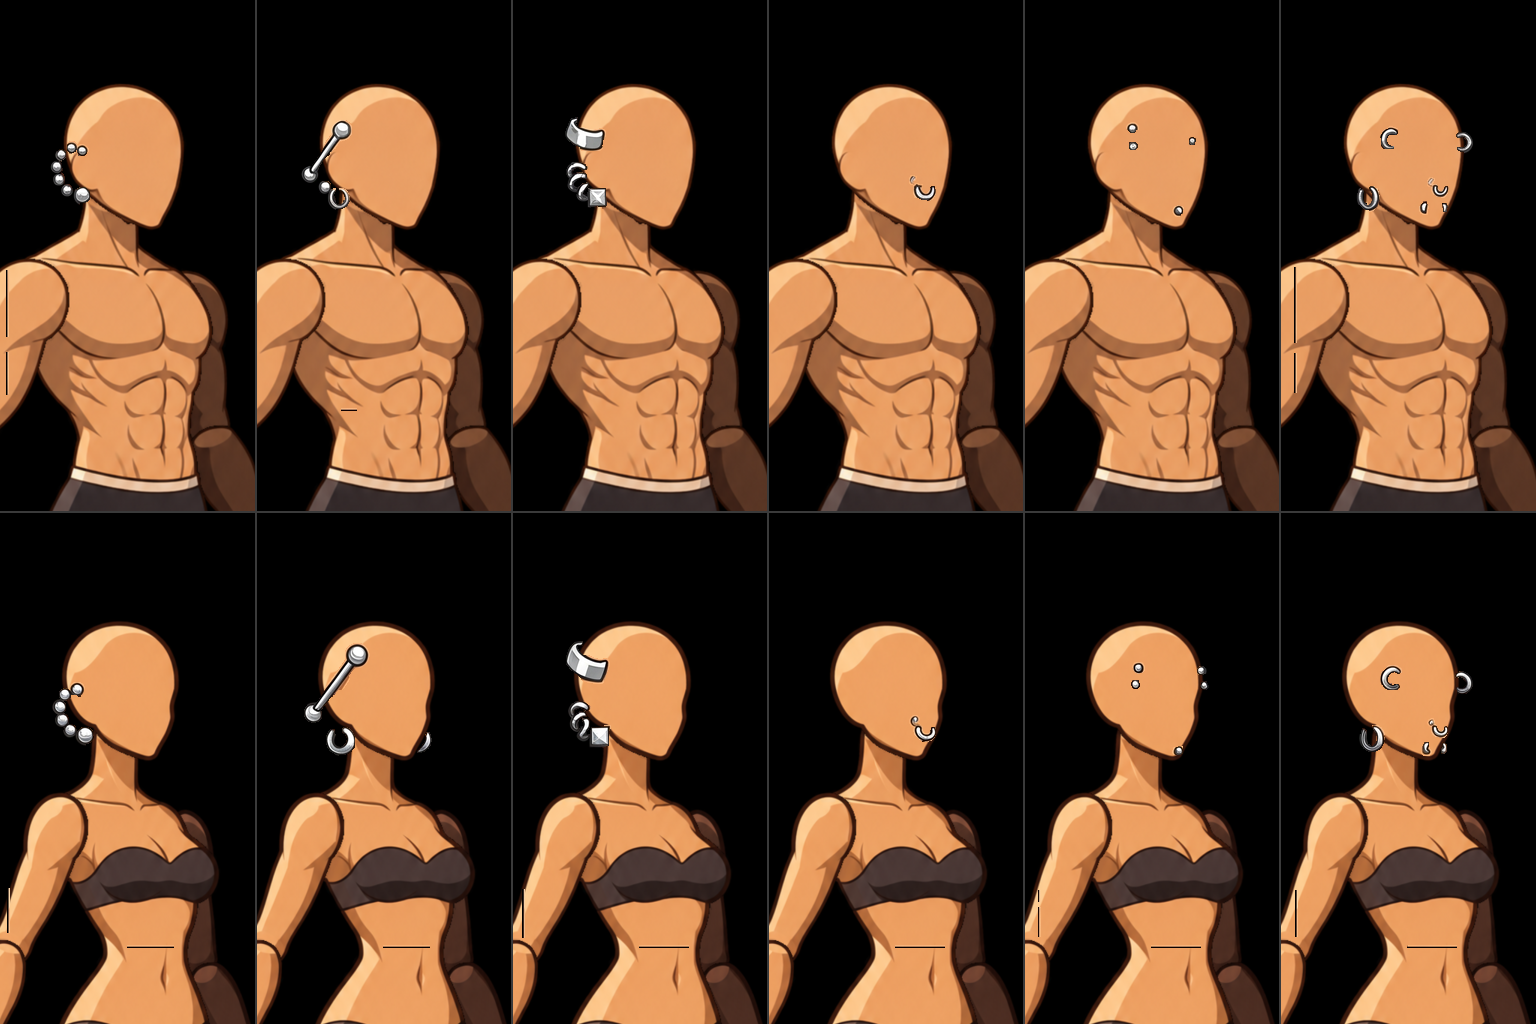
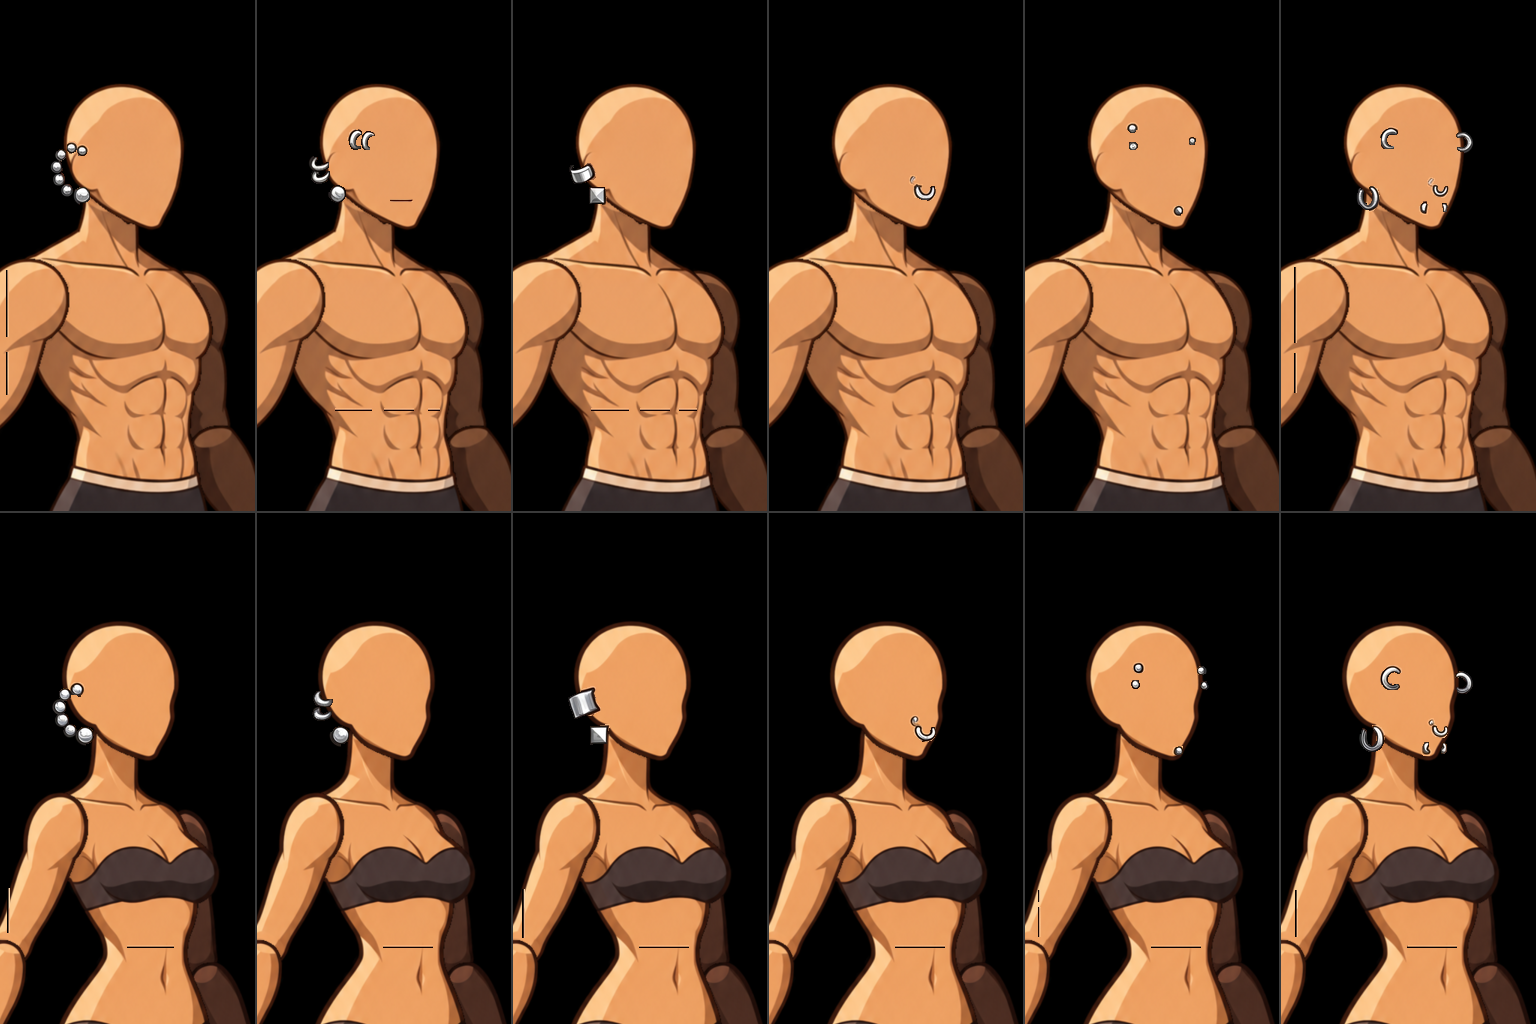
Ear piercings keep to the ear; sheet 7's bar and cuff painted again on it
tools/part_sheet.py drops a piece of an ear piercing whose middle is off the ear
(a ring the painter also put at the temple or on the scalp), whole, so nothing
stands clear of the hair. Sheet 7's second and third columns are painted again as
rings and a cuff on the ear itself; the long bar and the cuff on the skull showed
above any hairstyle. Its cells are cut after the import now running.

Claude-Session: https://claude.ai/code/session_01N47UGysUwqWC57BXeaRVAW

diff --git a/tools/part_sheet.py b/tools/part_sheet.py
@@ -1031,6 +1031,10 @@ EAR_THICK, EAR_LEAST = 2, 60
 #: a brow's or a lip's brown rather than metal's edge.
 PIERCINGS = (7,) + tuple(range(13, 25))
 PIERCING_BROWN = 0.3
+#: The piercings that are the ear's alone, and the box their pieces' middles keep to, as shares of the head's box
+#: (left of its left edge, right of it, and down from its top to the box's top and bottom).
+EAR_ONLY = (13, 14, 15, 19, 20)
+EAR_ONLY_ZONE = (0.25, 0.3, 0.25, 1.0)
 #: Gold is the skin's hue but yellower: at least this much of its red in green, and less than this in blue.
 PIERCING_GOLD = (0.7, 0.37)
 #: A gap along one of the base's lines this narrow (twice it), with the part on both sides, is the part's.
@@ -1091,6 +1095,19 @@ def extra_part(out, b, ref, covered, base_name, part):
             # A piercing is painted on a bare face, so the painter draws the brow, the nose and the
             # lips it goes through as well as the ear: all the skin's hues on the head go, and the
             # brown lines that aren't a stud's or a ring's own edge.
+            if int(part.split("-")[1]) in EAR_ONLY:
+                # What's worn on the ear is on the ear: a ring the painter put at the temple or on
+                # the scalp as well would stand clear of any hair, so it goes.
+                # Whole pieces, by where their middle is: none is cut in two at the box's edge.
+                pieces, n_ = ic.components(ic.grow(new, 2))
+                if n_:
+                    area = np.maximum(np.bincount(pieces.ravel(), minlength=n_ + 1), 1).astype(np.float64)
+                    mx = np.bincount(pieces.ravel(), weights=np.broadcast_to(across, pieces.shape).ravel().astype(np.float64), minlength=n_ + 1) / area
+                    my = np.bincount(pieces.ravel(), weights=np.broadcast_to(down, pieces.shape).ravel().astype(np.float64), minlength=n_ + 1) / area
+                    on_ear = ((mx >= hx - EAR_ONLY_ZONE[0] * hw) & (mx <= hx + EAR_ONLY_ZONE[1] * hw)
+                              & (my >= hy + EAR_ONLY_ZONE[2] * hh) & (my <= hy + EAR_ONLY_ZONE[3] * hh))
+                    on_ear[0] = False
+                    new &= on_ear[pieces]
             zone = ic.grow(on_head, 6)
             hued &= ~((c[..., 1] / red >= PIERCING_GOLD[0]) & (c[..., 2] / red < PIERCING_GOLD[1]))
             flesh = new & zone & hued & ~dark
